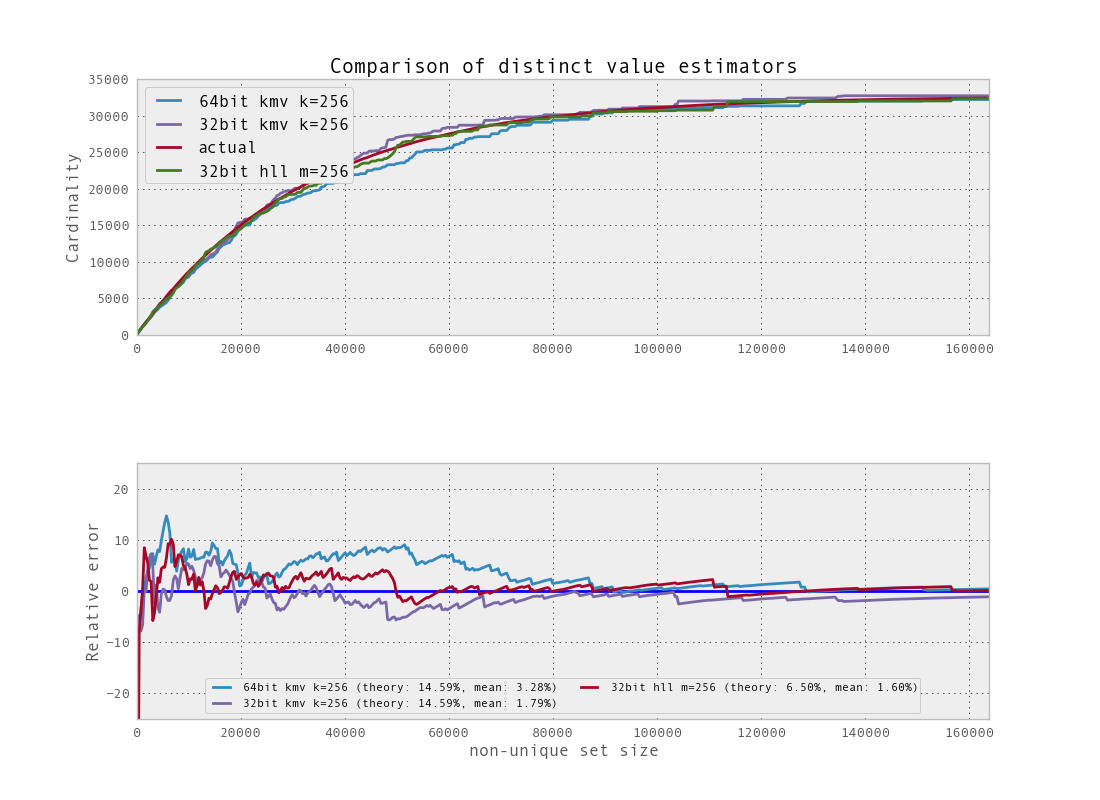
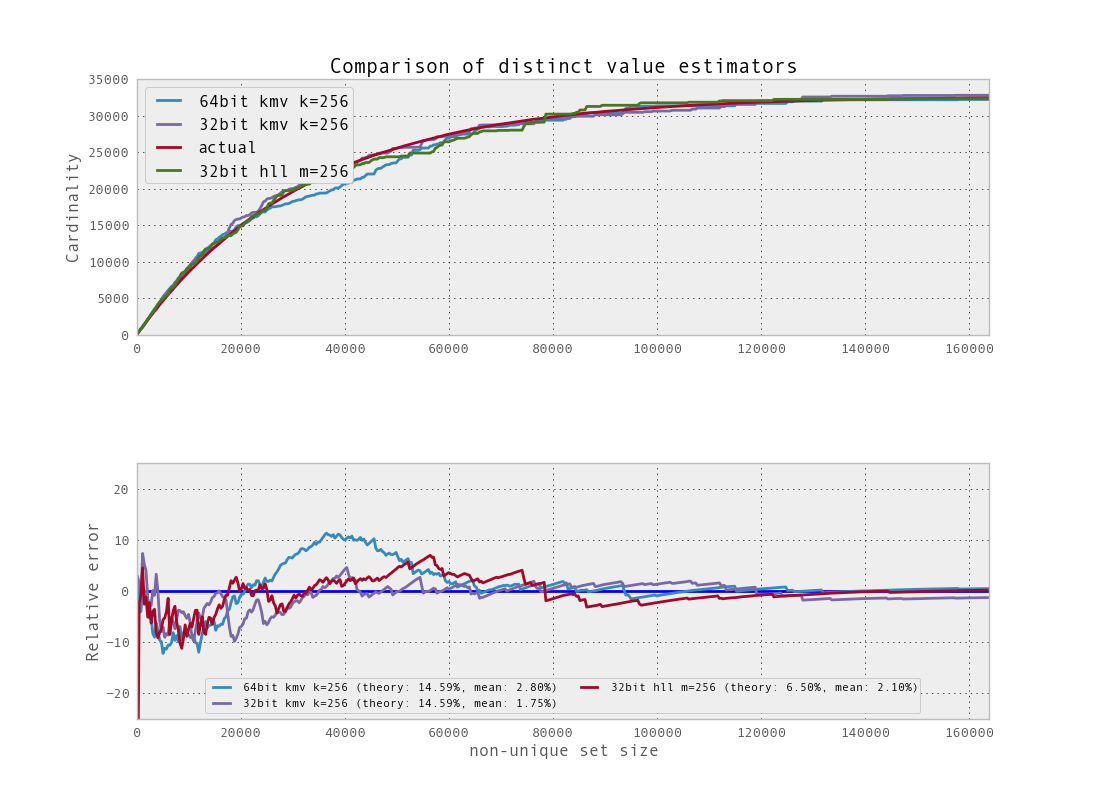
Update test

diff --git a/README.md b/README.md
@@ -19,9 +19,9 @@ average insertion time of 4us on a 1.8GHz i7 Macbook Air.
 
 Below are some benchmarks of error rates.  The set used for estimation are
 160000 random 16bit integers and the benchmark was generated using the
-`test_dve.py` script.  You can see that using a hash function with a larger
-domain yields better results, although it requires more memory.  Furthermore,
-interesting dynamics are seen where HLL performs worse than KMV on some sets of
-data, and vise versa for others.  More investigation is necessary!
+`test_dve.py` script.  For some as of yet unknown reason, KMV with a 64bit hash
+function performs _worse_ than a 32bit hash function.  This is counterintuitive
+and requires more investigation.  Furthermore, exact mean relative error rates
+vary from run to run by ~1%
 
 ![Benchmarks](https://raw.github.com/mynameisfiber/countmemaybe/master/countmemaybe/test_dve.png "Benchmarks of hyper loglog vs kmin values")
